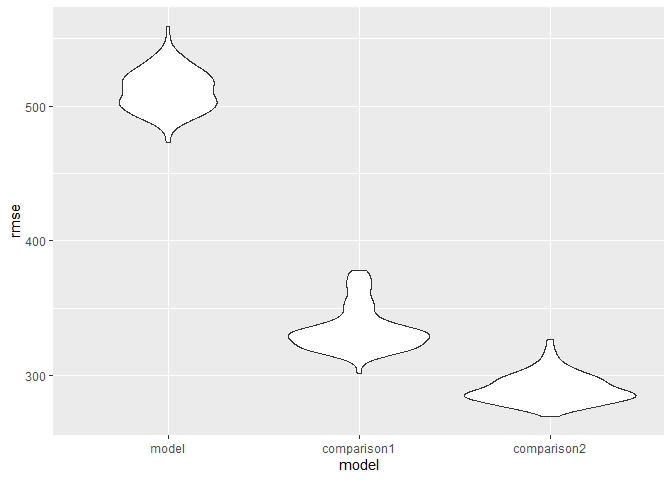
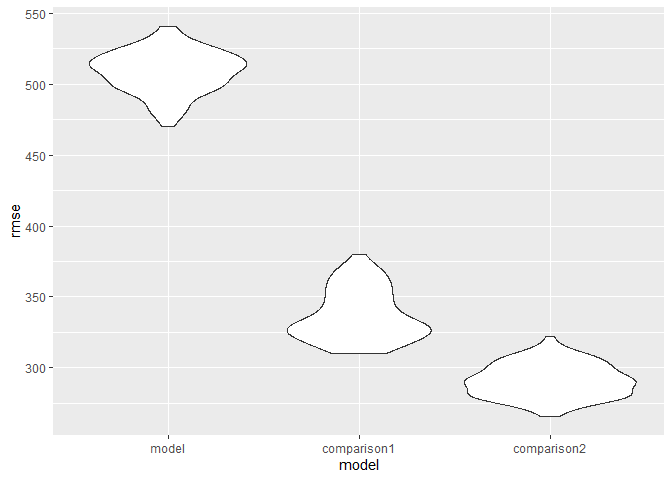
final final commit

diff --git a/p8105_hw6_ss6692.md b/p8105_hw6_ss6692.md
@@ -93,13 +93,13 @@ boot_straps =
   unnest(bootstrap_results)
 ```
 
-    ## Warning: There were 3440 warnings in `mutate()`.
+    ## Warning: There were 3329 warnings in `mutate()`.
     ## The first warning was:
     ## ℹ In argument: `bootstrap_results = map(strap_number,
     ##   ~boot_sample(weather_df))`.
     ## Caused by warning in `log()`:
     ## ! NaNs produced
-    ## ℹ Run `dplyr::last_dplyr_warnings()` to see the 3439 remaining warnings.
+    ## ℹ Run `dplyr::last_dplyr_warnings()` to see the 3328 remaining warnings.
 
 Distribution of r^2 values
 
@@ -119,10 +119,11 @@ boot_straps |>
   geom_density()
 ```
 
-    ## Warning: Removed 3440 rows containing non-finite values (`stat_density()`).
+    ## Warning: Removed 3329 rows containing non-finite values (`stat_density()`).
 
 ![](p8105_hw6_ss6692_files/figure-gfm/unnamed-chunk-2-1.png)<!-- -->
-There are `322 non-finite values`, which will not be included in the
+
+There are `3341 non-finite values`, which will not be included in the
 `log(βprcp*βtmin)` plot.
 
 ### Problem 3
@@ -167,7 +168,7 @@ birthweight |>
 
 ![](p8105_hw6_ss6692_files/figure-gfm/residual-1.png)<!-- -->
 
-Creating models to compare my model to.
+Creating two comparison models.
 
 ``` r
 comparison_1 = 
@@ -179,7 +180,7 @@ comparison_2 =
   lm(bwt ~ babysex*bhead*blength, data = _)
 ```
 
-Comparing my model to the two comparison models.
+Plotting my model against the comparison models.
 
 ``` r
 birthweight |> 
